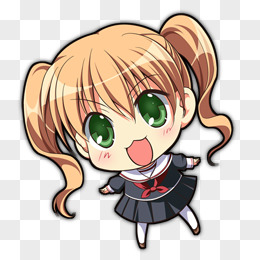
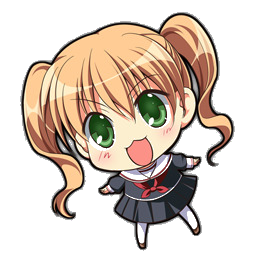
Improve TAT skin: transparent background, larger, no circle clip

diff --git a/public/index.html b/public/index.html
@@ -684,23 +684,18 @@ function drawPlayer(p, isMe) {
   const hasSkin = skin && skin.complete && skin.naturalWidth > 0 && p.alive;
 
   if (hasSkin) {
-    // Draw custom skin with circular clip
-    const radius = 26;
+    // Draw custom skin - full character, no clipping
+    const size = 70;
     // Gun still rotates
     ctx.save(); ctx.rotate(p.angle);
-    ctx.fillStyle = '#888'; ctx.fillRect(18, -3, 18, 6);
+    ctx.fillStyle = '#888'; ctx.fillRect(24, -3, 18, 6);
     ctx.restore();
-    // Circular clip for skin image
+    // Draw full character image
     if (!p.alive) ctx.globalAlpha = 0.3;
-    ctx.save();
-    ctx.beginPath(); ctx.arc(0, 0, radius, 0, Math.PI * 2); ctx.clip();
-    ctx.drawImage(skin, -radius, -radius, radius * 2, radius * 2);
-    ctx.restore();
+    ctx.imageSmoothingEnabled = true;
+    ctx.imageSmoothingQuality = 'high';
+    ctx.drawImage(skin, -size/2, -size/2, size, size);
     ctx.globalAlpha = 1;
-    // Outline ring
-    ctx.beginPath(); ctx.arc(0, 0, radius + 2, 0, Math.PI * 2);
-    ctx.strokeStyle = isMe ? '#fff' : 'rgba(255,255,255,0.3)';
-    ctx.lineWidth = isMe ? 3 : 1; ctx.stroke();
   } else {
     // Default circle player
     ctx.save(); ctx.rotate(p.angle);
@@ -714,14 +709,15 @@ function drawPlayer(p, isMe) {
 
   // hp bar
   if (p.alive) {
-    const bw = 36;
-    ctx.fillStyle = '#333'; ctx.fillRect(-bw/2, -34, bw, 5);
+    const bw = hasSkin ? 46 : 36;
+    const barY = hasSkin ? -42 : -34;
+    ctx.fillStyle = '#333'; ctx.fillRect(-bw/2, barY, bw, 5);
     ctx.fillStyle = p.hp > 50 ? '#2ecc71' : p.hp > 25 ? '#f39c12' : '#e74c3c';
-    ctx.fillRect(-bw/2, -34, bw * (p.hp / 100), 5);
+    ctx.fillRect(-bw/2, barY, bw * (p.hp / 100), 5);
   }
   // name
-  ctx.fillStyle = '#fff'; ctx.font = '12px sans-serif'; ctx.textAlign = 'center';
-  ctx.fillText(p.name, 0, hasSkin ? 38 : 34);
+  ctx.fillStyle = '#fff'; ctx.font = hasSkin ? 'bold 13px sans-serif' : '12px sans-serif'; ctx.textAlign = 'center';
+  ctx.fillText(p.name, 0, hasSkin ? 46 : 34);
   ctx.restore();
 }
 